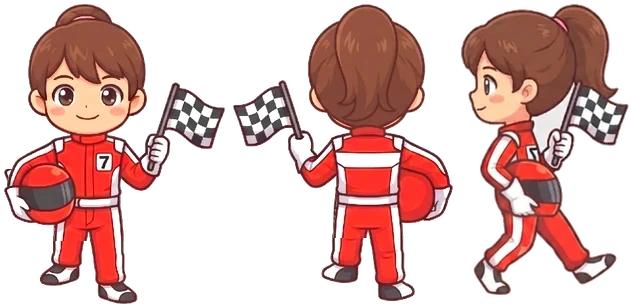
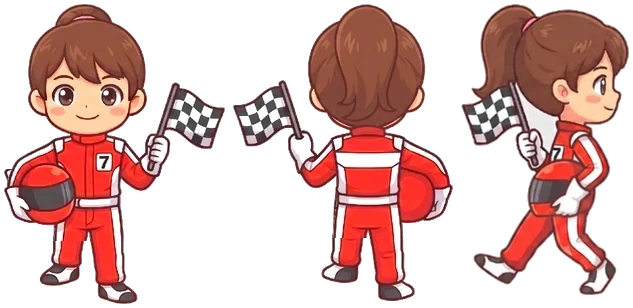
뒤로 걷던 옆모습 고치기(레이서 여·탐험가·유령 여), 마법사·공주님 걷는 자세 넣기

Changed region(s): [[0.7204, 0.0, 1.0, 0.9643]]

diff --git a/js/data/character-sprites.js b/js/data/character-sprites.js
@@ -538,7 +538,7 @@ window.MP_CHAR_SPRITES = {
     4,
     167,
     291,
-    57.5,
+    109.5,
     291
    ],
    "up": [
@@ -566,7 +566,7 @@ window.MP_CHAR_SPRITES = {
      4,
      168,
      291,
-     55.0,
+     113.0,
      291
     ],
     "up": [
@@ -625,7 +625,7 @@ window.MP_CHAR_SPRITES = {
     4,
     168,
     330,
-    91.6,
+    76.4,
     330
    ],
    "up": [
@@ -886,7 +886,7 @@ window.MP_CHAR_SPRITES = {
     4,
     153,
     321,
-    79.1,
+    73.9,
     321
    ],
    "up": [
@@ -914,7 +914,7 @@ window.MP_CHAR_SPRITES = {
      4,
      159,
      320,
-     63.1,
+     95.9,
      320
     ],
     "up": [
@@ -955,6 +955,35 @@ window.MP_CHAR_SPRITES = {
     112.8,
     307
    ]
+  },
+  "walk": {
+   "src": "assets/characters/S10-walk.webp",
+   "views": {
+    "down": [
+     4,
+     4,
+     225,
+     309,
+     112.1,
+     309
+    ],
+    "right": [
+     472,
+     4,
+     177,
+     303,
+     85.3,
+     303
+    ],
+    "up": [
+     237,
+     4,
+     227,
+     307,
+     112.8,
+     307
+    ]
+   }
   }
  },
  "S2": {
@@ -1216,6 +1245,35 @@ window.MP_CHAR_SPRITES = {
     105.3,
     365
    ]
+  },
+  "walk": {
+   "src": "assets/characters/S6-walk.webp",
+   "views": {
+    "down": [
+     4,
+     4,
+     215,
+     366,
+     106.4,
+     366
+    ],
+    "right": [
+     443,
+     4,
+     200,
+     362,
+     103.6,
+     362
+    ],
+    "up": [
+     227,
+     4,
+     208,
+     365,
+     105.3,
+     365
+    ]
+   }
   }
  },
  "S7": {

diff --git a/tools/build_walk.py b/tools/build_walk.py
@@ -18,13 +18,13 @@ from build_characters import remove_bg, enhance, ROOT, OUT, JS, PAD
 
 SRC = os.path.join(ROOT, 'assets', 'characters-src', 'walk')
 VIEWS = [('down', 'down'), ('up', 'up'), ('side', 'right')]
-# 다리가 보이는 캐릭터: 앞·뒤 걷는 칸을 만듦. (유령 R5·마법사 S6·공주님 S10 은 옷에 다리가 가려 제외 → 코드로만 걸음)
+# 다리가 보이는 캐릭터: 앞·뒤 걷는 칸을 만듦. (유령 R5 는 천에 다리가 가려 제외 → 코드로만 걸음. 마법사 S6·공주님 S10 은 옷자락 아래 신발만 들어 올림)
 LEGS = ['F1', 'F2', 'R1b', 'R1g', 'R2b', 'R2g', 'R3b', 'R3g', 'R4b', 'R4g', 'R6b', 'R6g', 'R7b', 'R7g',
-        'S1', 'S2', 'S3', 'S4', 'S5', 'S7', 'S8', 'S9']
+        'S1', 'S2', 'S3', 'S4', 'S5', 'S6', 'S7', 'S8', 'S9', 'S10']
 # 옆모습 원본을 색 보정 전 그림으로 받은 캐릭터(이것만 enhance). 나머지는 이미 진하게 만든 그림을 올려 받음
 RAW_SIDE = {'F1', 'F2'}
 # 제미나이가 오른쪽을 보게 그려 준 옆모습(뒤집지 않음)
-SIDE_RIGHT = {'S1'}
+SIDE_RIGHT = {'R4g'}
 
 
 def crop_alpha(rgba):
@@ -41,12 +41,14 @@ def head_width(a):
 
 LEG_CUT = 0.79    # 이 높이(위에서부터 비율) 아래를 종아리·발로 봄
 LEG_LIFT = 0.06   # 들어 올리는 높이(키에 대한 비율)
+# 긴 옷 캐릭터: 옷자락 아래 신발 부분만 [자르는 높이, 들어 올리는 높이]
+LEG_BY = {'S6': (0.90, 0.035), 'S10': (0.92, 0.03)}
 
 
-def lift_leg(stand, foot_x):
+def lift_leg(stand, foot_x, cut_r=LEG_CUT, lift_r=LEG_LIFT):
     """그림 왼쪽 다리의 종아리·발을 위로 살짝 올린 '한 걸음' 그림. 올린 다리는 반바지·치마 밑으로 들어감."""
     h, w = stand.shape[:2]
-    cut, lift = int(h * LEG_CUT), max(2, round(h * LEG_LIFT))
+    cut, lift = int(h * cut_r), max(2, round(h * lift_r))
     top = stand.copy(); top[cut:] = 0
     low = stand.copy(); low[:cut - lift * 3] = 0
     left = low.copy(); left[:, int(foot_x):] = 0
@@ -85,7 +87,7 @@ def main():
             stand = sheet[r[1]:r[1] + r[3], r[0]:r[0] + r[2]]
             if view in ('down', 'up'):
                 # 앞·뒤: 서 있는 그림에서 한쪽 종아리만 살짝 들어 올려 만듦(제미나이 그림은 안짱다리가 됨)
-                im = lift_leg(stand, r[4])
+                im = lift_leg(stand, r[4], *LEG_BY.get(cid, (LEG_CUT, LEG_LIFT)))
                 ims.append((view, im))
                 rects[view] = [x + PAD, PAD, im.width, im.height, r[4], im.height]
                 x += im.width + PAD * 2

diff --git a/tools/build_characters.py b/tools/build_characters.py
@@ -44,7 +44,7 @@ def enhance(im):
     out = rgb.convert('RGBA'); out.putalpha(a)
     return out
 # 제미나이가 옆모습을 왼쪽을 보게 그린 캐릭터: 옆모습 칸을 좌우로 뒤집어 모두 오른쪽을 보게 맞춤
-SIDE_FACES_LEFT = {'F1', 'F2', 'R1b', 'R1g', 'R4b', 'R4g', 'R5b', 'R5g', 'R6b', 'R6g', 'R7b', 'S2', 'S4', 'S7'}
+SIDE_FACES_LEFT = {'F1', 'F2', 'R1b', 'R1g', 'R4b', 'R5b', 'R6b', 'R6g', 'R7b', 'S1', 'S2', 'S4', 'S7'}
 
 
 def remove_bg(rgb):

diff --git a/README.md b/README.md
@@ -42,7 +42,7 @@
 - 시험: `characters-test.html`에서 26명이 네 방향으로 걷는 모습을 한 번에 봅니다. 게임은 `index.html?test=1`로 열면 모든 캐릭터를 티켓·건물 통과 없이 골라 볼 수 있습니다(티켓·보상 기록은 그대로).
 - 그림: 원본(`assets/characters-src/*.png`)에서 `python tools/build_characters.py`가 배경을 지우고 앞·뒤·옆 3칸으로 잘라 몸 키를 맞춥니다(모자 높이 보정 `HAT`, 왼쪽을 보는 옆모습은 `SIDE_FACES_LEFT`로 뒤집음). 왼쪽으로 걸을 때는 게임에서 옆모습을 뒤집어 그립니다.
 - 걷기: 걷기 칸 그림 없이 걸음마다 살짝 위아래로 움직이고, 옆모습은 가는 쪽으로 조금 숙여 걷습니다(`js/characters.js`의 `Walker.draw`). 지도 위 몸 키는 `DRAW_H`(60px).
-- 걷는 자세 그림: 다리가 보이는 22명(기본 남녀·건물 보상·티켓 가게, `build_walk.py`의 `LEGS`)은 걷는 자세가 있어 [걷는 자세, 서 있기, 반대 발, 서 있기]로 걷습니다. 옆모습은 서 있는 그림을 제미나이에 올려 '다리·팔만 걷는 자세로' 고쳐 받은 원본(`assets/characters-src/walk/<id>_side.png`)을 쓰고, 앞·뒤는 서 있는 그림에서 한쪽 종아리를 살짝 들어 올려 만듭니다(제미나이 그림은 안짱다리처럼 나와서). `python tools/build_walk.py`로 `assets/characters/<id>-walk.webp`를 만들고, 앞·뒤 반대 발은 좌우로 뒤집어 씁니다. 옷에 다리가 가려진 꼬마 유령·꼬마 마법사·공주님은 걷는 자세 없이 코드로만 걷습니다.
+- 걷는 자세 그림: 24명(기본 남녀·건물 보상·티켓 가게, `build_walk.py`의 `LEGS`)은 걷는 자세가 있어 [걷는 자세, 서 있기, 반대 발, 서 있기]로 걷습니다. 옆모습은 서 있는 그림을 제미나이에 올려 '다리·팔만 걷는 자세로' 고쳐 받은 원본(`assets/characters-src/walk/<id>_side.png`)을 쓰고, 앞·뒤는 서 있는 그림에서 한쪽 종아리를 살짝 들어 올려 만듭니다(제미나이 그림은 안짱다리처럼 나와서). `python tools/build_walk.py`로 `assets/characters/<id>-walk.webp`를 만들고, 앞·뒤 반대 발은 좌우로 뒤집어 씁니다. 천에 다리가 가려진 꼬마 유령만 걷는 자세 없이 코드로만 걷고, 마법사·공주님은 옷자락 아래 신발만 들어 올립니다(`LEG_BY`).
 
 ## 좌표계
 모든 좌표는 시즌 지도 원본 픽셀(1448×1086, 왼쪽 위 0,0) 기준입니다. 배경, 캐릭터, 충돌 영역, 입구가 같은 변환 하나로 그려지므로 화면 크기가 바뀌어도 어긋나지 않습니다.
